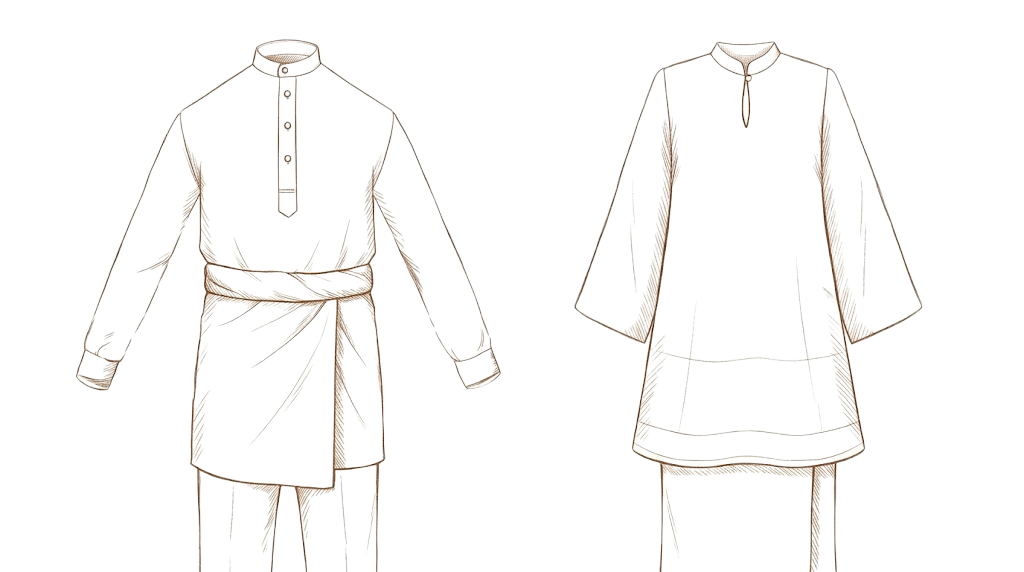
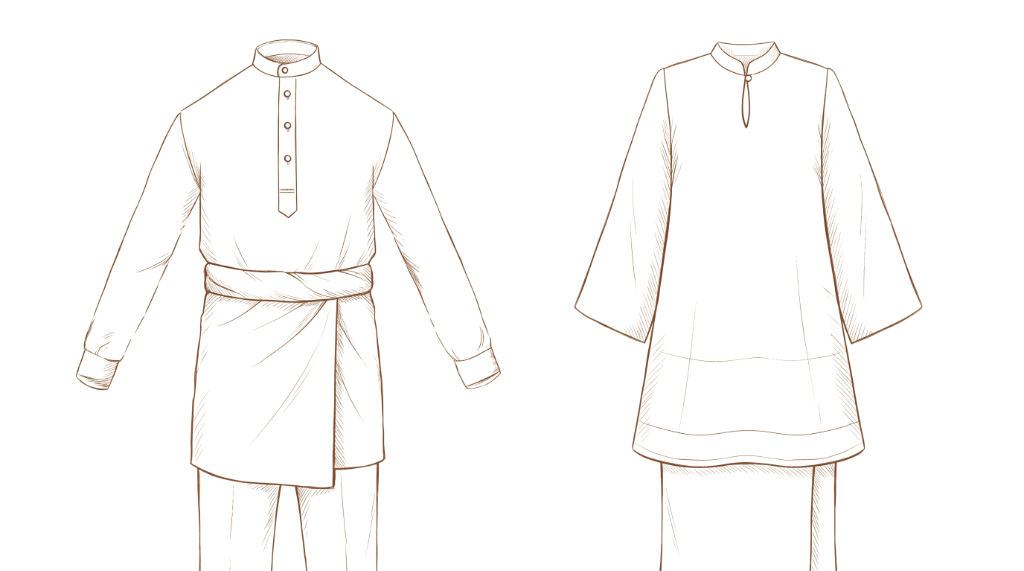
Update Tema Pakaian PNG with latest provided illustration

diff --git a/main.html b/main.html
@@ -14,7 +14,7 @@
   <link rel="preconnect" href="https://fonts.gstatic.com" crossorigin>
   <link href="https://fonts.googleapis.com/css2?family=Amiri:ital,wght@0,400;0,700;1,400&family=Noto+Naskh+Arabic:wght@400;600;700&family=Scheherazade+New:wght@400;700&family=Cormorant+Garamond:ital,wght@0,400;0,500;0,600;0,700;1,400;1,600&family=Italiana&family=Pinyon+Script&family=Playfair+Display:ital,wght@0,400;0,600;0,700;1,400&family=Plus+Jakarta+Sans:wght@300;400;500;600&display=swap" rel="stylesheet">
 
-  <link rel="stylesheet" href="styles.css?v=20260921_1350">
+  <link rel="stylesheet" href="styles.css?v=20260921_1354">
   <style>
     @font-face {
       font-family: 'Amiri';
@@ -607,7 +607,7 @@
           <!-- Card 2: Tema Pakaian -->
           <div class="details-card">
             <div class="details-icon-wrap">
-              <img src="assets/media/attire_traditional_melayu.png" alt="Tema Pakaian: Tradisional Melayu" class="details-icon attire-theme-img">
+              <img src="assets/media/attire_traditional_melayu.png?v=20260921_1354" alt="Tema Pakaian: Tradisional Melayu" class="details-icon attire-theme-img">
             </div>
             <h3 class="details-title">Tema Pakaian</h3>
             <ul class="details-list">
